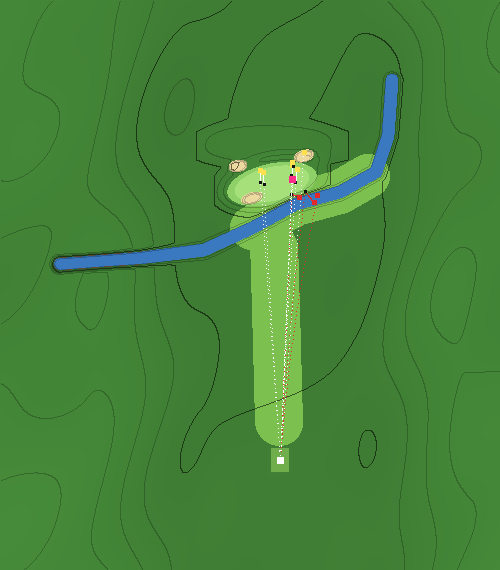
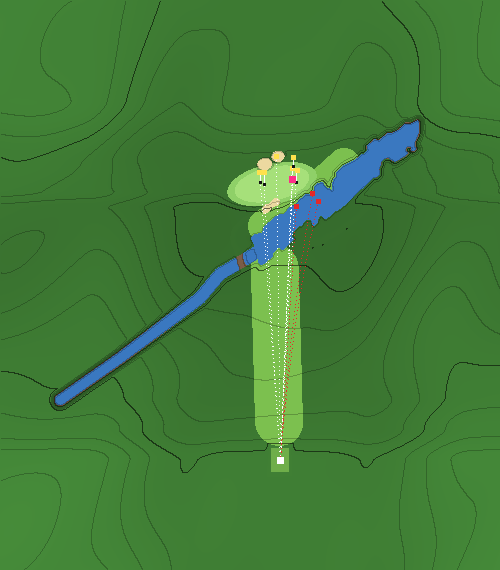
Augusta 12: bunkers, creek and heights from the 2018 USGS lidar
Fast lane. Creek in front of the green from the lidar's flattened water,
a band under the Hogan Bridge (now on the left), six height ramps, one
front and two back bunkers at 0.4-0.54 yd. Three shot checks restated
for the real creek (spec §6). Highest hop over ten seeds 5.34 -> 3.29 yd.

Claude-Session: https://claude.ai/code/session_01L6C3mgW8iMSD9JZeturm7K

diff --git a/index.html b/index.html
@@ -547,18 +547,26 @@ const HOLES=[
   // Inspired by No. 12 (Golden Bell): a short iron over Rae's Creek to a shallow, wide green angled away from the tee, with a steep bank in front, deep bunkers behind
   // and a wind that swirls in the lowest spot on the property. The deeper left side is safe; the pin tucked by the creek on the right is the temptation. docs/holes/augusta-12.md
   seed:1.1,roll:0.5,ridge:3,
-  route:[[0,0],[75,2],[142,4]],fw:[[0,12],[142,12]],fairway:[[7,118]],
+  route:[[0,0],[75,2],[142,4]],fw:[[0,12],[142,12]],fairway:[[7,108]],
   green:{x:4,z:138,rx:19,rz:8.5,rot:-0.22},pin:{x:-6,z:140.5},tilt:{x:0.014,z:0.02},
   features:[
-    {type:'rise',area:{x:4,z:139,rx:21,rz:10.5,rot:-0.22},dh:2.2,edge:8},          // the green sits up above the creek
-    {type:'rise',area:{x:4,z:158,rx:30,rz:6},dh:1.4,edge:8},                        // and a bank rises behind it, so a long ball stops in the bunkers
-    {type:'cover',area:{pts:[[14,116],[-8,128],[-30,134],[-44,142]],w:11},surf:'FAIRWAY'},   // where the creek swings in to the green its banks are shaved: anything short rolls back into the water
+    // heights from the 2018 USGS lidar (lidar.py build; docs/holes/trace/augusta-12.json): the tee 3.5 yd above the pin, down to the creek, up onto the green, the bank behind
+    {type:'ramp',z0:0,z1:16,dh:-1.83},
+    {type:'ramp',z0:16,z1:32,dh:-0.88},
+    {type:'ramp',z0:32,z1:115.9,dh:-2.24},
+    {type:'ramp',z0:126,z1:134.5,dh:1.45},   // the front bank: build's 123.9-135.9 tightened to where the lidar has it on the line to the pin (x -6: 1.5 m in 7 yd)
+    {type:'ramp',z0:134.5,z1:147.9,dh:0.3},
+    {type:'ramp',z0:147.9,z1:179.8,dh:2.37},
+    {type:'cover',area:{pts:[[8,117],[0,123],[-8,128],[-15,134],[-22,139],[-32,148]],w:8},surf:'FAIRWAY'},   // where the creek swings in to the green its banks are shaved: anything short rolls back into the water
   ],
   play:{wind:[3,14],windPush:2,greens:{speed:1.3,firm:0.75}},
-  bunkers:[{x:14,z:131,rx:6,rz:3,rot:-0.3,depth:1.6,lip:0.5},{x:21,z:147,rx:5,rz:3.3,rot:-0.2,depth:1.6,lip:0.5},{x:-12,z:152,rx:5.5,rz:3.2,rot:-0.3,depth:1.6,lip:0.5}],
-  water:[{kind:'creek',profile:'shore',level:-2,bed:-3.3,edge:2.5,
-    shape:{type:'band',w:3.2,pts:[[110,98],[70,101],[38,105],[14,116],[-8,128],[-30,134],[-48,144],[-54,162],[-56,190]]}}],
-  bridge:{x:-34,z:134},
+  // bunkers from the lidar: one in front of the green (lidar.py build), two behind its left half (2 m hollows, placed by hand: they join the bank's toe in build)
+  bunkers:[{pts:[[3,131.2],[0.5,130.8],[-0.2,129.5],[-0.2,128.5],[1,127.2],[3.5,126.2],[5.5,123.8],[7.5,122.8],[8.5,123.2],[9.2,124.5],[8.8,127],[7,128.2],[5.5,128.2]],depth:0.41,lip:0.25},
+           {x:7.6,z:148,rx:4,rz:3.2,rot:-0.22,depth:0.54,lip:0.25},{x:1,z:151.8,rx:3.5,rz:3,rot:-0.22,depth:0.5,lip:0.25}],
+  water:[{kind:'creek',profile:'shore',level:-5,bed:-6.3,edge:2.5,   // Rae's Creek left of the green, under the Hogan Bridge (the lidar's lowest line: not flattened there)
+    shape:{type:'band',w:3.2,pts:[[110,30],[80,51],[60,66],[40,81],[30,93],[18,100],[8,106]]}},
+    {kind:'creek',profile:'shore',level:-5.7,bed:-6.6,edge:3,shape:{type:'poly',pts:[[-69,170.8],[-70.2,169.5],[-70.2,163.5],[-67.8,158.5],[-67.8,157],[-68.8,155.5],[-67.5,154.2],[-66,153.8],[-64.8,155],[-65.2,156],[-64,156.2],[-63.2,155],[-64.8,153.5],[-63,151.8],[-58,148.8],[-57,148.8],[-54,150.8],[-52,150.2],[-50.8,149],[-50.8,147.5],[-49.8,145.5],[-50.2,143],[-48.5,141.2],[-46.5,140.8],[-33,127.8],[-29,124.8],[-27.5,124.2],[-25,121.8],[-22.5,120.2],[-21,121.8],[-20,121.8],[-18.8,119.5],[-18.8,118.5],[-17,116.8],[-15.8,118],[-15.5,119.8],[-13,119.8],[-10.5,116.8],[-9.5,116.8],[-7.2,114.5],[-6.2,113],[-6.2,111.5],[-7.2,110.5],[-2,105.2],[-1,104.8],[0.5,106.2],[3.2,103.5],[3.8,101.5],[7.5,98.2],[9.5,97.2],[10.8,98.5],[11.2,101],[11.8,101.5],[11.8,103],[12.8,105],[12.8,107],[14.8,111],[13,112.8],[9,113.8],[8.2,116.5],[2.5,121.8],[0.5,122.8],[-2,123.2],[-5,126.8],[-7.5,127.8],[-10.5,131.2],[-11,131.2],[-12.5,132.8],[-14.5,132.8],[-16.8,135],[-16.8,136.5],[-18.5,138.2],[-21,139.2],[-23.5,136.2],[-25,135.8],[-26,134.8],[-25.8,138],[-26.8,140.5],[-27.8,141.5],[-27.8,143.5],[-31.5,147.2],[-37.5,150.2],[-41,153.2],[-42,153.2],[-43.8,155],[-43.2,155.5],[-43.2,157],[-47,160.8],[-49.5,160.2],[-53.5,163.8],[-55.5,163.8],[-58.5,165.2],[-62.5,168.8],[-65.5,168.8]]}}],   // and in front of the green, as wide as the lidar's flattened water (85 x 73.5 yd overall); level set 0.7 under the flattened banks and edge 3 (build: -5.03, 0.6) so the shore profile neither raises a 0.6 yd step round it nor leaves a cliff that launches balls
+  bridge:{x:30,z:93},   // the Hogan Bridge: left of the green from the tee, as the tee photo and the yardage book show
   bbox:{x0:-110,x1:140,z0:-55,z1:230},
   trees:[{type:'tallpine',n:260,zone:'rect',x:[-110,140],z:[168,230],s:[0.9,1.3]},{type:'tallpine',n:220,zone:'sides',side:'both',d:[14,90],z:[-45,170],s:[0.85,1.25]},
          {type:'pine',n:50,zone:'sides',side:'both',d:[8,30],z:[0,150],s:[0.8,1.2]}],

diff --git a/tests/hole-checks.js b/tests/hole-checks.js
@@ -122,10 +122,10 @@ module.exports = {
     shots: [
       { name: 'a well-struck iron at the pin holds the right side of the green', shot: { club: 'Iron', offset: 0.1 }, expect: { surf: ['GREENS'], maxToPin: 7 } },
       { name: 'a well-struck iron at the middle of the green holds it', shot: { club: 'Iron', at: [10, 139], offset: 0.1 }, expect: { surf: ['GREENS'] } },
-      { name: 'a slightly thin iron lands on the steep bank and feeds back into the creek', shot: { club: 'Iron', offset: 0.3 }, expect: { end: 'water' } },
+      { name: 'a thin iron at the pin comes up short in the creek', shot: { club: 'Iron', offset: 0.4 }, expect: { end: 'water' } },
       { name: 'a push right at the pin is wet', shot: { club: 'Iron', offset: 0.5 }, expect: { end: 'water' } },
-      { name: 'carried 15 yards long, the ball finds the deep back-right bunker', shot: { club: 'Iron', at: [-12, 156] }, expect: { end: 'rest', surf: ['SAND'] } },
-      { name: 'into a 14 mph headwind, a stock shot comes up short in the creek', shot: { club: 'Iron', wind: { mph: 14, dir: 'head' } }, expect: { end: 'water' } },
+      { name: 'carried long over the left half of the green, the ball finds a back bunker', shot: { club: 'Iron', at: [2, 152] }, expect: { end: 'rest', surf: ['SAND'] } },
+      { name: 'an iron flown a club short of the pin (the wind misjudged) finds the creek', shot: { club: 'Iron', at: [-8, 128] }, expect: { end: 'water' } },
       { name: 'clubbing up for the headwind (arc past the pin) finishes on the putting surface or its edge', shot: { club: 'Iron', at: [-6, 150], wind: { mph: 14, dir: 'head' } }, expect: { surf: ['GREENS', 'FRINGE'], maxToPin: 9 } },
       { name: 'with a 14 mph tailwind, a stock shot flies the green into the back bunkers or beyond', shot: { club: 'Iron', wind: { mph: 14, dir: 'tail' } }, expect: { end: 'rest', surf: ['SAND', 'ROUGH'] } },
     ],

diff --git a/docs/holes/augusta-12.md b/docs/holes/augusta-12.md
@@ -41,13 +41,13 @@ It differs from Sawgrass 17 on purpose: shallow and wide, angled, one water haza
 
 | Real feature | Game expression | Parameters | What it does to play |
 |---|---|---|---|
-| Rae's Creek | creek water body, shore profile | band `w:3.2`, bending in toward the green on the right | Short or thin is wet |
-| Steep bank | `cover` FAIRWAY band along the creek's right half | `w:11` | Short balls roll back into the creek |
-| Raised green and the bank behind it | two `rise` features | dh 2.2 and 1.4 | The green sits up; long balls stop in the bunkers |
-| Bunkers front and back | bunkers | depth 1.6, lip 0.5 | The back ones are the miss |
+| Rae's Creek | two creek bodies, shore profile | in front of the green: the lidar's flattened water (`poly`, 85 × 73.5 yd overall, 12–17 yd wide), its green-side shore 13 yd short of the pin and 2 yd off the green's right end; left of it, a band along the lidar's lowest line under the bridge | Short or thin is wet; the right end of the green is the tight one |
+| Steep bank | `ramp` z 126–134.5, dh 1.45 (lidar: 1.5 m in 7 yd on the line to the pin), `cover` FAIRWAY band along the green-side shore | `w:8` | Short balls land on a shaved slope above the water |
+| Heights: the tee above the creek, the green, the bank behind | six `ramp`s from the 2018 USGS lidar (`lidar.py build`) | tee 3.5 yd above the pin; the green 1.6 yd above the water; +2.4 yd over 32 yd behind | The tee shot drops; long balls run up into the back bunkers |
+| Bunkers front and back | one in front (lidar outline), two behind the green's left half (lidar 2 m hollows) | depth 0.41–0.54, lip 0.25 | The back ones are the miss long |
 | Swirling wind | play profile | `wind:[3,14], windPush:2` | The HUD reads GUSTY; wind decides the club |
 | Fast greens | play profile | `greens:{speed:1.3, firm:0.75}` | Soft landing, quick roll |
-| Hogan Bridge | `bridge` | at (-34,134) | Scenery |
+| Hogan Bridge | `bridge` | at (30, 93): left, over the band | Scenery |
 
 **Capability gaps**: the real wind swirls during the swing; the game's wind is constant for a shot. Pin position is fixed (the Sunday right pin); there is no per-round pin.
 
@@ -56,10 +56,10 @@ It differs from Sawgrass 17 on purpose: shallow and wide, angled, one water haza
 | Characteristic | Real | Game | Why this amount |
 |---|---|---|---|
 | Green depth | 16–26 yd by source | about 17 yd | Shallow, so distance control decides |
-| Creek margin on the right | a few yards | creek bent in at the right | The pin attack has to cost a shaky player (wet 38% vs 14% for the middle) |
-| Wind | 0–15+ mph | 3–14, windPush 2 | A 14 mph headwind takes a stock iron into the creek |
+| Creek margin on the right | a few yards | as the lidar has it: 2 yd off the green's right end, 13 yd short of the pin | Not exaggerated any more: the pin attack still costs a shaky player (wet 33 % vs 10 % for the middle) |
+| Wind | 0–15+ mph | 3–14, windPush 2 | A 14 mph headwind costs a stock iron 8 yd: it lands on the front of the green, not in the creek (that needs about 22 mph, or a club short) |
 
-**Realism bounds** (`node tests/tools/slope.js augusta-12`, `docs/maps/augusta-12-slope.png`): 0 / 92 / 1 / 7 % in the four bands: a 2.4 % tilt, with the 7 % over 4 % along the front edge where the `rise` under the green begins to fall away. No dome; "flat pockets" reads WARN. §3 calls the green's contours mild (a slight tilt and a bank behind); the decision is the creek and the wind, so the putting surface is left as it is.
+**Realism bounds** (`node tests/tools/slope.js augusta-12`, `docs/maps/augusta-12-slope.png`): 0 / 95 / 1 / 4 % in the four bands: one gentle tilt, steep only at the front edge. No dome; "flat pockets" reads WARN. §3 calls the green's contours mild (a slight tilt and a bank behind); the decision is the creek and the wind, so the putting surface is left as it is.
 
 ## 6. Validation — the contract
 
@@ -67,72 +67,84 @@ It differs from Sawgrass 17 on purpose: shallow and wide, angled, one water haza
 |---|---|
 | A well-struck iron at the pin | Green, ≤ 7 yd from the pin |
 | A well-struck iron at the middle | Green |
-| A slightly thin iron | Steep bank, back into the creek |
+| A thin iron at the pin (needle 0.4) | Short, in the creek |
 | A push right at the pin | Wet |
-| 15 yards long, at (-12,156) | The back-right bunker |
-| 14 mph headwind, stock shot | Short, in the creek |
+| Long over the left half, at (2,152) | A back bunker |
+| A club short, at (-8,128) | In the creek |
 | Clubbing up for the headwind | Green or its edge, ≤ 9 yd |
 | 14 mph tailwind, stock shot | Through the green: sand or rough |
 
 | Decision | Plans | Must hold |
 |---|---|---|
-| The Sunday pin | pin / deep middle | The pin is never wet for a sharp player (100 % on the green) and wet ≥ 25 % for a shaky one (38 %, with 62 % on the green); the middle drowns half as often or less (14 %); the pin saves a sharp player over 0.4 strokes (0.55); for a shaky player the two plans are within a quarter stroke of each other, either way (the pin is 0.10 better) |
+| The Sunday pin | pin / deep middle | The pin is never wet for a sharp player (100 % on the green) and wet ≥ 25 % for a shaky one (33 %, with 62 % on the green); the middle drowns half as often or less (10 %); the pin saves a sharp player over 0.4 strokes (0.46); for a shaky player the two plans are within a quarter stroke of each other, either way (the middle is 0.12 better) |
 
-**Honest note**: the baseline still rates the two plans as close for a shaky player (pin 3.54, middle 3.64: the pin is 0.10 stroke better) because its penalty for a wet ball is only one stroke; the middle drowns 14 % of the time against 38 %. The contract therefore asserts the hazard rates and a bounded gap, not a score advantage for the middle. The real hole is the same at the margin: the middle is safer, not better.
+**Honest note**: the baseline rates the two plans as close for a shaky player (pin 3.51, middle 3.39: the middle is 0.12 stroke better) because its penalty for a wet ball is only one stroke; the middle drowns 10 % of the time against 33 %. The contract therefore asserts the hazard rates and a bounded gap, not a score advantage for the middle. The real hole is the same at the margin: the middle is safer, not better.
 
 **Check-change log**
 
 | Check | Was | Now | Why |
 |---|---|---|---|
 | The Sunday pin, shaky player | the middle costs a shaky player no more than 0.1 stroke extra (`middle.shaky ≤ pin.shaky + 0.1`) | the two plans are within a quarter stroke of each other, either way (`|pin.shaky − middle.shaky| < 0.25`) | The baseline gained a recovery term that charges a ball that finishes in the deep back bunkers or at the foot of the bank (shaky middle 3.55 → 3.64) while the pin's score did not move (3.54): the gap went from 0.01 to 0.10, a hair past the old bound. "Costs nothing" claimed more than the baseline shows; the new wording states the gap it does |
+| A slightly thin iron (needle 0.3) | lands on the steep bank and feeds back into the creek | a thin iron (needle 0.4) comes up short in the creek | The lidar puts the creek 7 yd further from the pin than the old guess: a 0.3 thin iron now carries the water and the bank (lands at z 134, the shore is at 128) and holds the green 8 yd from the pin. 0.4 is the first miss that is short and wet |
+| 15 yards long at (-12,156) | finds the deep back-right bunker | long over the left half, at (2,152), finds a back bunker | The lidar has no bunker back right: both back bunkers sit behind the green's left half (as the yardage book draws them) |
+| 14 mph headwind, stock shot | short, in the creek | an iron flown a club short (at -8,128) finds the creek | With the creek where the lidar has it, a 14 mph headwind costs a stock iron 8 yd and it lands on the green's front edge (3.6 yd from the pin); it takes about 22 mph, outside the hole's wind range, to reach the water. The check now states the miss the creek punishes: a club short |
 
 ## 7. Results
+
+`node tests/hole-report.js --hole=augusta-12` after the lidar rebuild ("before" is the Phase 2 baseline the tool compares with):
 
 ```
 === Augusta National (augusta-12) — A short iron over Rae's Creek to a shallow, wide green angled away from the tee: the creek and its steep bank short, deep bunkers long, a swirling wind over it all. The deeper left side is the safe target; the Sunday pin tucked by the creek on the right is the temptation.
 shot                                                                           before           after
 a well-struck iron at the pin holds the right side of the green                GREENS 5y        GREENS 5y
 a well-struck iron at the middle of the green holds it                         GREENS 15y       GREENS 15y
-a slightly thin iron lands on the steep bank and feeds back into the creek     FRINGE 9y        WATER 16y
-a push right at the pin is wet                                                 ROUGH 19y        WATER 15y
-carried 15 yards long, the ball finds the deep back-right bunker               ROUGH 18y        SAND 15y
-into a 14 mph headwind, a stock shot comes up short in the creek               GREENS 0y        WATER 10y
-clubbing up for the headwind (arc past the pin) finishes on the putting surfa  ROUGH 9y         FRINGE 7y
-with a 14 mph tailwind, a stock shot flies the green into the back bunkers or  ROUGH 9y         ROUGH 9y
+a thin iron at the pin comes up short in the creek                             ROUGH 13y        WATER 12y
+a push right at the pin is wet                                                 ROUGH 19y        WATER 17y
+carried long over the left half of the green, the ball finds a back bunker     ROUGH 15y        SAND 14y
+an iron flown a club short of the pin (the wind misjudged) finds the creek     ROUGH 12y        WATER 14y
+clubbing up for the headwind (arc past the pin) finishes on the putting surfa  ROUGH 9y         GREENS 5y
+with a 14 mph tailwind, a stock shot flies the green into the back bunkers or  ROUGH 9y         ROUGH 11y
 
   strategy: the Sunday pin: attack it by the creek, or play to the deep middle
   plan       skill   before: wet green score   after: wet green score
   pin        sharp           0% 100% 2.64              0% 100% 2.67
-  pin        shaky           0%  67% 2.95             38%  62% 3.54
-  middle     sharp           0% 100% 3.13              0%  81% 3.22
-  middle     shaky           0%  71% 3.23             14%  48% 3.64
-  payoff of pin over middle (strokes saved): sharp 0.49 → 0.55, shaky 0.28 → 0.10   (before → after)
+  pin        shaky           0%  67% 2.95             33%  62% 3.51
+  middle     sharp           0% 100% 3.13              0% 100% 3.13
+  middle     shaky           0%  71% 3.23             10%  71% 3.39
+  payoff of pin over middle (strokes saved): sharp 0.49 → 0.46, shaky 0.28 → -0.12   (before → after)
+
+"score" = expected strokes for the whole hole from that moment (tour-style baseline; water/OB = stroke and distance).
 ```
 
-"Before" is the same land and green with no creek bank, bunkers, wind or green shaping. Expected strokes ("score") come from the baseline in `tests/hole-play.js`, including its recovery-difficulty term (see `docs/ICONIC-HOLES.md`), so they differ slightly from earlier pastes of this table.
+## 8. Review — does it look like the hole?
 
-## 8. Visual review — does it look like the hole?
+**Fast lane, lidar** (2026-10-20). Bunkers, water and heights from the lidar; the green is still the ellipse: no near-vertical aerial yet.
 
-**Review-only pass, no reference image yet** (2026-10-19). The verdicts below compare the game's renders (`python3 tests/tools/render.py augusta-12 tee bird approach green aerial`; the green-complex view is committed as `docs/maps/augusta-12-aerial.png`) with this spec's sources and what is widely known of the hole. Nothing here was traced, so no shape is measured: "close" means the parts are there and in the right places, not that their sizes are right, and every **no reference** row waits for a photo. The step and its tools: `docs/ICONIC-HOLES.md` §2, step 7.
+**References used**: USGS 3DEP 1 m DEM, `GA_Statewide_2018_B18_DRRA`, tile x40y371 (2018; not in the repo); a map pin on the green from the project owner; a tee photo and a bridge-side photo, and a yardage-book drawing (no compass) — used for direction and to confirm the bridge, not traced. Frame: `docs/holes/trace/augusta-12.json` (bearing 207.1°, 1.012 game yd per m: the real tee is 136 m from the pin, the game's 141 yd).
 
-**Photos to get**: an aerial of the green from over the tee, and the tee shot (the hole is one picture from the tee).
+**What changed**
 
-| Area | Item | Verdict | Evidence (render against sources) | Action / missing primitive |
-|---|---|---|---|---|
-| Tee placement and elevation | Tee position and line to the green | **close** | Straight across the creek | — |
-| | Elevation: tee, landing area, green | **close** | The green raised above the creek bank (two `rise`s) | — |
-| | Ground between | **close** | Fairway grass down to the creek | — |
-| Fairway and fairway bunkers | Fairway outline and width | **matches** | A short mown approach | — |
-| | Fairway bunkers: count, place, shape | **matches** | None | — |
-| | Rough, waste, paths | **close** | — | — |
-| Green and greenside bunkers | Green outline and size | **close** | Wide and shallow (38 × 17 yd), angled away to the right, as the sources say; an ellipse | Trace from the aerial |
-| | Green contours as seen | **no reference** | — | — |
-| | Greenside bunkers: count, place, shape, depth | **close** | One in front, two behind; the front one sits front-left of the green's middle | Trace from the aerial to place the front one |
-| | Collar, banks and falloffs | **close** | The steep shaved bank into the creek | — |
-| Surroundings and landmarks | Trees: kind and where | **close** | Tall pines behind, azaleas in bloom under them | — |
-| | Water, cliffs, structures, backdrop | **close** | Rae's Creek across the front, bending in on the right | — |
-| | Landmarks a player would name | **differs: fix** (to confirm) | The Hogan Bridge is built at (−34, 134): right of the green from the tee. The bridge that carries players to this green crosses on the left | Move the `bridge` to the left side if a photo confirms it: data only |
+| Item | Was | Now |
+|---|---|---|
+| Creek in front of the green | a 6.4 yd band, its shore about 8 yd short of the pin | the lidar's flattened water: 12–17 yd wide, shore 13 yd short of the pin, 2 yd off the green's right end; level 0.7 yd under its banks, shore edge 3 |
+| Creek left of the green | the same band, bending toward the tee | a band along the lidar's lowest line, under the bridge |
+| Heights | two `rise`s (green +2.2, bank +1.4) | six `ramp`s: the tee 3.5 yd above the pin, down to the water, a 7 yd front bank, the bank behind |
+| Front bunker | ellipse 12 × 6 yd at (14, 131), 1.6 deep | lidar outline 9.5 × 8.5 yd at (4.7, 127.2), 0.41 deep |
+| Back bunkers | two ellipses, back-left (21, 147) and back-right (-12, 152), 1.6 deep | both behind the left half, at (7.6, 148) and (1, 151.8), 0.54 and 0.50 deep |
+| Hogan Bridge | (-34, 134): right | (30, 93): left |
+| Highest hop, ten seeds (`tests/ball.test.js` loop) | 5.34 yd | 3.29 yd |
 
-**Open items**, most important first:
-1. The Hogan Bridge's side: data only, confirm with a photo.
-2. Trace the green and the three bunkers from one aerial.
+**Renders**: `docs/maps/augusta-12-tee.png`, `docs/maps/augusta-12-aerial.png`.
+
+**Verdict**
+- Tee and direction: **matches** — the creek runs across from front-left to back-right and the bridge is on the left, as in the tee photo and the yardage book.
+- Heights: **matches** (lidar).
+- Green: **close** — ellipse, shallow and angled the right way; its left end runs about 8 yd into the foot of the bank the lidar shows. Needs an aerial.
+- Bunkers: **matches** for place and depth; the back two are sized from 2 m hollows and may be a little small.
+- Water and surroundings: **matches** for the creek; azaleas and pines as before.
+
+**Open items**
+1. Trace the green from a near-vertical aerial and place it with `lidar.py match`.
+2. `lidar.py build` merges the back bunkers into the bank's toe at every smoothing tried; they were placed by hand.
+
+**Signed off**: pending review.
